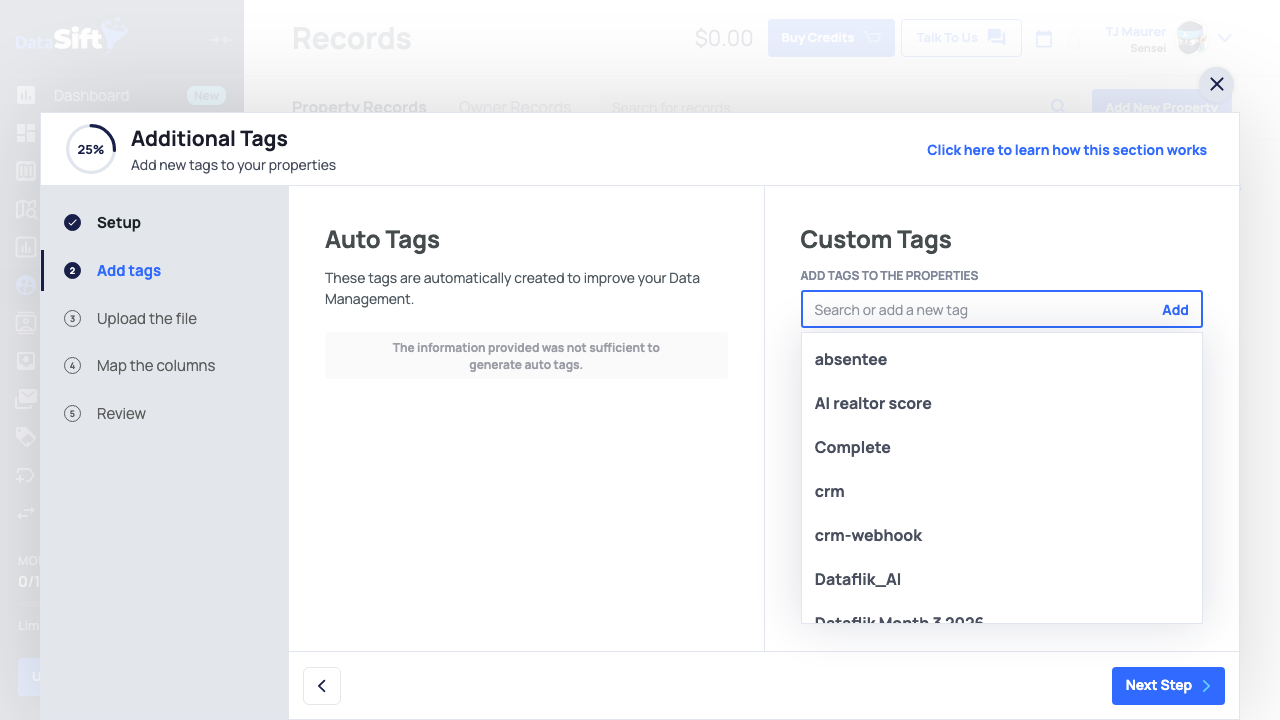
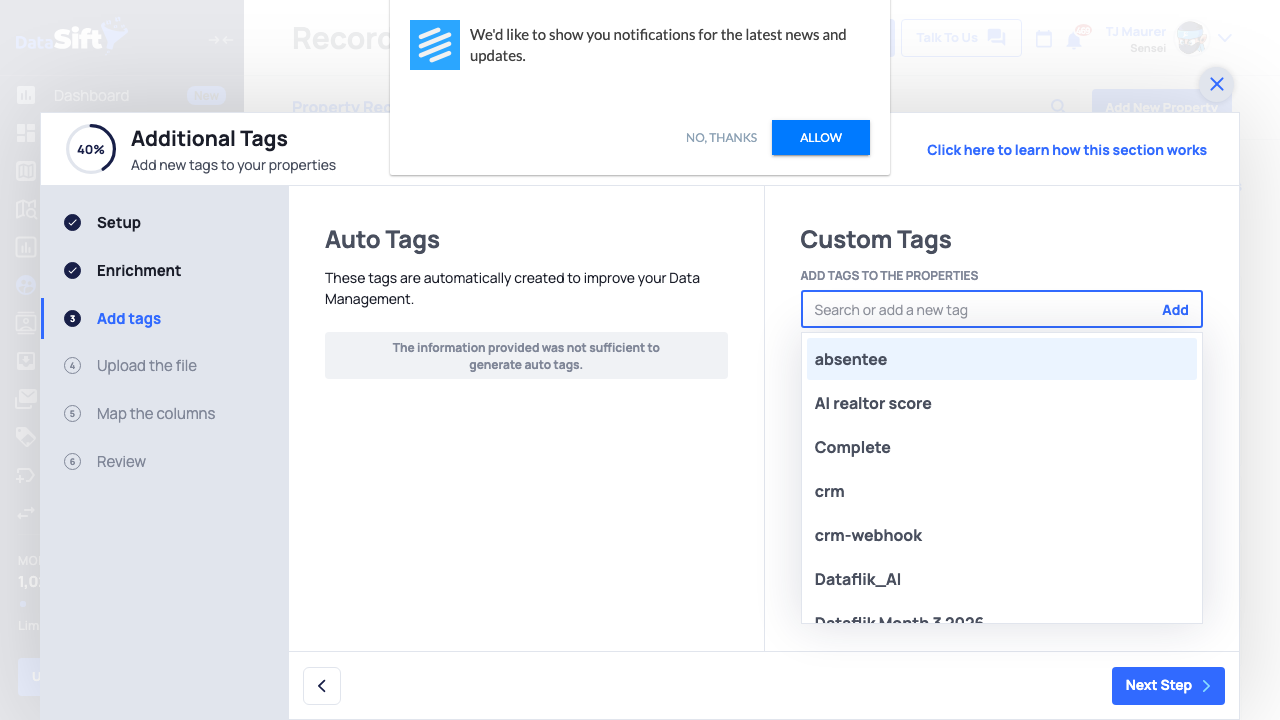
feat: update DataSift uploader to handle new Enrichment step and add diagnostic sidebar probe script

diff --git a/src/datasift_uploader.py b/src/datasift_uploader.py
@@ -300,13 +300,31 @@ async def upload_csv(
 
     await _screenshot(page, "step1_form_filled")
 
-    # Click "Next Step" to proceed to step 2
+    # Click "Next Step" to proceed past Setup
     await _click_next_step(page, timeout=30000)
 
-    # ── Wizard Step 2: Add tags ──
-    logger.info("Wizard Step 2: Adding 'Courthouse Data' tag...")
+    # ── Wizard Step 2: Enrichment (pass-through) ──
+    # DataSift added a new "Enrichment" screen between Setup and Add Tags
+    # (observed 2026-05-21). We don't configure enrichment here — the
+    # post-upload Manage → Enrich Data step handles that. Just advance.
+    logger.info("Wizard Step 2: Enrichment (pass-through, no config)...")
+    await page.wait_for_timeout(1500)
+    await _screenshot(page, "step2_enrichment_passthrough")
+    # Re-dismiss notification popup if it reappeared between steps
+    try:
+        no_thanks = page.locator('button:has-text("NO, THANKS"), button:has-text("No, thanks")')
+        if await no_thanks.count() > 0 and await no_thanks.first.is_visible():
+            await no_thanks.first.click()
+            await page.wait_for_timeout(500)
+            logger.debug("Re-dismissed notifications popup at Enrichment step")
+    except Exception:
+        pass
+    await _click_next_step(page, timeout=20000)
+
+    # ── Wizard Step 3: Add tags ──
+    logger.info("Wizard Step 3: Adding 'Courthouse Data' tag...")
     await page.wait_for_timeout(1000)
-    await _screenshot(page, "step2_tags")
+    await _screenshot(page, "step3_tags")
 
     # Add "Courthouse Data" tag via the Custom Tags input on the right side
     try:
@@ -373,10 +391,10 @@ async def upload_csv(
 
     await _click_next_step(page)
 
-    # ── Wizard Step 3: Upload the file ──
-    logger.info("Wizard Step 3: Uploading CSV file: %s", csv_path.name)
+    # ── Wizard Step 4: Upload the file ──
+    logger.info("Wizard Step 4: Uploading CSV file: %s", csv_path.name)
     await page.wait_for_timeout(3000)
-    await _screenshot(page, "step3_before_upload")
+    await _screenshot(page, "step4_before_upload")
 
     try:
         file_input = page.locator('input[type="file"]')
@@ -393,7 +411,7 @@ async def upload_csv(
             logger.info("CSV file selected: %s", csv_path.name)
             await page.wait_for_timeout(3000)
         else:
-            await _screenshot(page, "step3_no_file_input")
+            await _screenshot(page, "step4_no_file_input")
             result["message"] = "Could not find file input element"
             logger.error(result["message"])
             return result
@@ -405,8 +423,8 @@ async def upload_csv(
     await _screenshot(page, "step3_file_uploaded")
     await _click_next_step(page)
 
-    # ── Wizard Step 4: Map the columns ──
-    logger.info("Wizard Step 4: Column mapping — mapping Tags and Lists...")
+    # ── Wizard Step 5: Map the columns ──
+    logger.info("Wizard Step 5: Column mapping — mapping Tags and Lists...")
     await page.wait_for_timeout(3000)
     await _screenshot(page, "step4_column_mapping")
 
@@ -470,8 +488,8 @@ async def upload_csv(
     await _click_next_step(page)
     await _screenshot(page, "step4_mapping_done")
 
-    # ── Wizard Step 5: Review ──
-    logger.info("Wizard Step 5: Review and finish upload...")
+    # ── Wizard Step 6: Review ──
+    logger.info("Wizard Step 6: Review and finish upload...")
     await page.wait_for_timeout(2000)
     await _screenshot(page, "step5_review")
 
@@ -1023,6 +1041,8 @@ async def upload_to_datasift(
     headless: bool = True,
     enrich: bool = True,
     skip_trace: bool = True,
+    list_name: str = "Claude Test",
+    existing_list: bool = True,
 ) -> dict:
     """Full DataSift workflow: launch browser → login → upload CSV → enrich → skip trace.
 
@@ -1033,6 +1053,12 @@ async def upload_to_datasift(
         headless: Run browser in headless mode.
         enrich: Run "Enrich Property Information" after upload (default True).
         skip_trace: Run "Skip Trace" after upload (default True, uses unlimited plan).
+        list_name: DataSift list to upload into. Defaults to "Claude Test" — the
+            user's standing disposition list per CLAUDE.md (set 2026-05-21).
+            Pass a different name to route a specific run elsewhere.
+        existing_list: When True (default), uploads append to ``list_name`` which
+            must already exist in DataSift. When False, creates a new list with
+            that name.
 
     Returns:
         Dict with upload results including enrich_result and skip_trace_result.
@@ -1071,13 +1097,13 @@ async def upload_to_datasift(
                     "message": "DataSift login failed",
                 }
 
-            # Upload CSV
-            result = await upload_csv(page, csv_path)
+            # Upload CSV — appending to user's standing list by default
+            result = await upload_csv(
+                page, csv_path,
+                list_name=list_name, existing_list=existing_list,
+            )
 
             if result.get("success"):
-                # Derive list name (same format as upload_csv generates)
-                from datetime import datetime as _dt
-                list_name = f"SiftStack {_dt.now().strftime('%Y-%m-%d')}"
 
                 # Enrich property data via SiftMap
                 if enrich:

diff --git a/scripts/probe_datasift_sidebar.py b/scripts/probe_datasift_sidebar.py
@@ -1,0 +1,107 @@
+"""Diagnostic: log into DataSift fresh and dump all 'Upload'-related elements
+in the sidebar + a screenshot so we can identify the actual selectors.
+
+This bypasses the cached cookies that may be leaving the session in a stuck
+upload-wizard state from previous failed attempts."""
+
+import asyncio
+import json
+import os
+import sys
+from pathlib import Path
+
+sys.path.insert(0, str(Path(__file__).resolve().parents[1] / "src"))
+
+from dotenv import load_dotenv
+load_dotenv(str(Path(__file__).resolve().parents[1] / ".env"))
+
+
+async def main() -> None:
+    from playwright.async_api import async_playwright
+
+    # Force a fresh session — delete any cached cookies file
+    cookie_files = [
+        Path("datasift_cookies.json"),
+        Path("datasift_cookies.json.bak"),
+    ]
+    for cf in cookie_files:
+        if cf.exists():
+            cf.unlink()
+            print(f"Removed cached cookie file: {cf}")
+
+    async with async_playwright() as p:
+        browser = await p.chromium.launch(headless=True)
+        ctx = await browser.new_context(viewport={"width": 1440, "height": 900})
+        page = await ctx.new_page()
+
+        print("\n1. Navigating to login page...")
+        await page.goto("https://app.reisift.io/login", wait_until="domcontentloaded")
+        await page.wait_for_timeout(2000)
+
+        print("2. Filling credentials...")
+        await page.fill('input[type="email"], input[name="email"]', os.getenv("DATASIFT_EMAIL", ""))
+        await page.fill('input[type="password"], input[name="password"]', os.getenv("DATASIFT_PASSWORD", ""))
+        # Click the hidden checkboxes (per CLAUDE.md: hidden inputs, click labels)
+        for label_text in ("Remember", "Terms"):
+            try:
+                lbl = page.locator(f'label:has-text("{label_text}")').first
+                if await lbl.count() > 0:
+                    await lbl.click()
+            except Exception:
+                pass
+        # Click login
+        await page.click('button:has-text("Login"), button:has-text("Log in"), button:has-text("Sign in")')
+        print("3. Waiting for SPA login redirect...")
+        await page.wait_for_timeout(8000)
+
+        print(f"4. Current URL: {page.url}")
+        await page.screenshot(path="probe_after_login.png", full_page=False)
+        print("   Screenshot: probe_after_login.png")
+
+        # Now find ALL elements containing "Upload" text in the visible viewport
+        print("\n5. Scanning page for 'Upload'-related elements...")
+        elements = await page.evaluate("""() => {
+            const all = Array.from(document.querySelectorAll('*'));
+            const matches = [];
+            for (const el of all) {
+                const text = (el.textContent || '').trim();
+                if (text.toLowerCase().includes('upload') && text.length < 60) {
+                    const rect = el.getBoundingClientRect();
+                    if (rect.width > 0 && rect.height > 0) {
+                        matches.push({
+                            tag: el.tagName.toLowerCase(),
+                            text: text,
+                            className: (el.className || '').toString().slice(0, 80),
+                            x: Math.round(rect.x),
+                            y: Math.round(rect.y),
+                            w: Math.round(rect.width),
+                            h: Math.round(rect.height),
+                            visible: rect.x >= 0 && rect.y >= 0 && rect.x < 1440,
+                        });
+                    }
+                }
+            }
+            // Dedupe by text+y, prefer smaller elements
+            const seen = new Map();
+            for (const m of matches) {
+                const key = m.text + '|' + m.y;
+                if (!seen.has(key) || seen.get(key).w > m.w) seen.set(key, m);
+            }
+            return Array.from(seen.values()).sort((a, b) => a.y - b.y);
+        }""")
+
+        print(f"\n=== Found {len(elements)} 'Upload'-text elements (visible) ===")
+        for el in elements:
+            print(f"  {el['tag']:6s} y={el['y']:4d} x={el['x']:4d} w={el['w']:4d} text={el['text']!r:35s} class={el['className']!r}")
+
+        # Specifically look for a sidebar-like Upload File entry (x < 250 typically)
+        sidebar = [e for e in elements if e["x"] < 250 and "upload" in e["text"].lower()]
+        print(f"\n=== Sidebar candidates (x < 250) ===")
+        for el in sidebar:
+            print(f"  {el['tag']} {el['text']!r}  pos=({el['x']},{el['y']}) class={el['className']!r}")
+
+        await browser.close()
+
+
+if __name__ == "__main__":
+    asyncio.run(main())
